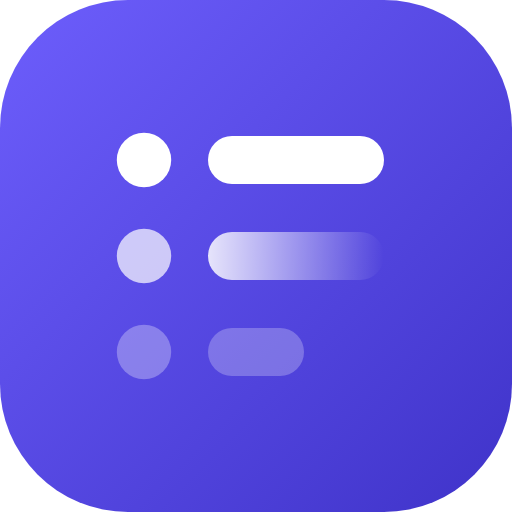
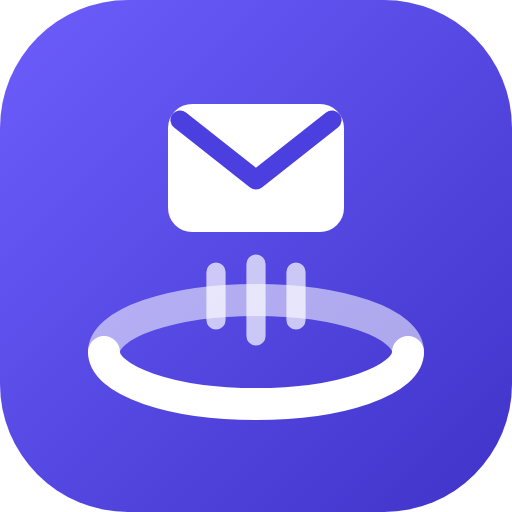
Rename to HoopUp and prepare hoopup.tech on Cloudflare Pages
HoopUp, from the Dutch "hoepel op!" (get lost). Headline "Tell them to
hoop up." / "Laat ze ophoepelen.", a new icon (mail leaving through a
hoop), new preview image, canonical and Open Graph URLs on hoopup.tech,
and every user-facing name, export file name and rule name updated.

Hosting: scripts/build.sh now builds the site into dist/ (only served
files, commit stamped into asset URLs) and is shared by the GitHub Pages
workflow and the Cloudflare Pages build. _headers gives Cloudflare what a
meta tag cannot: frame-ancestors, HSTS, nosniff and a Permissions-Policy.
The CSP is set per page rather than site-wide, since two policies on a
response are both enforced and a global one would break the unsubscribe
worker; that worker is covered at both /unsubscribe.html and the
/unsubscribe path Cloudflare serves it at. Verified against a local
imitation of Cloudflare's header merging and .html redirects: one-click
unsubscribe still delivers, and the full suite passes.

The privacy statement names whichever host is serving the page, so it
stays correct before and after the move.

Claude-Session: https://claude.ai/code/session_01XV4u65F8vtqzABBY9Vux4v

Changed region(s): [[0.1562, 0.1875, 0.8438, 0.8438]]

diff --git a/src/views.js b/src/views.js
@@ -1222,9 +1222,9 @@ export function blockPanel(bl, client) {
   const steps = {
     outlookcom: `
       <ol class="small">
-        ${bl.links.length ? `<li>${L('<b>Settings</b> (gear) → <b>Mail</b> → <b>Rules</b> → <b>Add new rule</b>. Name it <i>Unlisted – links</i>. Condition <b>Subject or body includes</b> — add each of:',
-          '<b>Instellingen</b> (tandwiel) → <b>E-mail</b> → <b>Regels</b> → <b>Nieuwe regel toevoegen</b>. Noem hem <i>Unlisted – links</i>. Voorwaarde <b>Onderwerp of hoofdtekst bevat</b> — voeg elk toe van:')} ${sites}. ${L('Action <b>Delete</b>. Save.', 'Actie <b>Verwijderen</b>. Opslaan.')}</li>` : ''}
-        ${reply.length ? `<li>${L('Add a second rule, <i>Unlisted – replies</i>. Condition <b>Message header includes</b> —', 'Voeg een tweede regel toe, <i>Unlisted – antwoorden</i>. Voorwaarde <b>Berichtkop bevat</b> —')} ${replies}. ${L('Action <b>Delete</b>. Save.', 'Actie <b>Verwijderen</b>. Opslaan.')}</li>` : ''}
+        ${bl.links.length ? `<li>${L('<b>Settings</b> (gear) → <b>Mail</b> → <b>Rules</b> → <b>Add new rule</b>. Name it <i>HoopUp – links</i>. Condition <b>Subject or body includes</b> — add each of:',
+          '<b>Instellingen</b> (tandwiel) → <b>E-mail</b> → <b>Regels</b> → <b>Nieuwe regel toevoegen</b>. Noem hem <i>HoopUp – links</i>. Voorwaarde <b>Onderwerp of hoofdtekst bevat</b> — voeg elk toe van:')} ${sites}. ${L('Action <b>Delete</b>. Save.', 'Actie <b>Verwijderen</b>. Opslaan.')}</li>` : ''}
+        ${reply.length ? `<li>${L('Add a second rule, <i>HoopUp – replies</i>. Condition <b>Message header includes</b> —', 'Voeg een tweede regel toe, <i>HoopUp – antwoorden</i>. Voorwaarde <b>Berichtkop bevat</b> —')} ${replies}. ${L('Action <b>Delete</b>. Save.', 'Actie <b>Verwijderen</b>. Opslaan.')}</li>` : ''}
       </ol>
       ${bl.links.length && reply.length ? twoRules : ''}
       <p class="small muted">${L('Menu names shift slightly between Outlook versions; the conditions are the same.', 'Menunamen verschillen soms per Outlook-versie; de voorwaarden zijn hetzelfde.')}</p>
@@ -1245,15 +1245,15 @@ export function blockPanel(bl, client) {
         <li>${L('Download the filter file below.', 'Download hieronder het filterbestand.')}</li>
         <li>${L('<b>Settings</b> (gear) → <b>See all settings</b> → <b>Filters and Blocked Addresses</b>.',
                '<b>Instellingen</b> (tandwiel) → <b>Alle instellingen bekijken</b> → <b>Filters en geblokkeerde adressen</b>.')}</li>
-        <li>${L('<b>Import filters</b> → choose <code>unlisted-filters.xml</code> → <b>Open file</b> → <b>Create filters</b>. Tick <i>Also apply to matching conversations</i> to clear what is already there.',
-               '<b>Filters importeren</b> → kies <code>unlisted-filters.xml</code> → <b>Bestand openen</b> → <b>Filters maken</b>. Vink <i>Filter ook toepassen op overeenkomende gesprekken</i> aan om wat er al staat op te ruimen.')}</li>
+        <li>${L('<b>Import filters</b> → choose <code>hoopup-filters.xml</code> → <b>Open file</b> → <b>Create filters</b>. Tick <i>Also apply to matching conversations</i> to clear what is already there.',
+               '<b>Filters importeren</b> → kies <code>hoopup-filters.xml</code> → <b>Bestand openen</b> → <b>Filters maken</b>. Vink <i>Filter ook toepassen op overeenkomende gesprekken</i> aan om wat er al staat op te ruimen.')}</li>
       </ol>
       ${reply.length ? `<p class="small muted">${L('Gmail filters cannot look at the reply address, so the file uses the link sites.', 'Gmail-filters kunnen niet naar het antwoordadres kijken, dus het bestand gebruikt de linksites.')}</p>` : ''}
       <div class="row"><button class="primary" data-action="dl-block" data-fmt="gmail" ${bl.links.length ? '' : 'disabled'}>${L('Download Gmail filters', 'Download Gmail-filters')}</button></div>`,
     apple: `
       <ol class="small">
-        <li>${L('Mail on your Mac → <b>Settings</b> → <b>Rules</b> → <b>Add Rule</b>. Name it <i>Unlisted</i>, and set <b>If any of the following conditions are met</b>.',
-               'Mail op je Mac → <b>Instellingen</b> → <b>Regels</b> → <b>Voeg regel toe</b>. Noem hem <i>Unlisted</i> en kies <b>Als aan een van de volgende voorwaarden is voldaan</b>.')}</li>
+        <li>${L('Mail on your Mac → <b>Settings</b> → <b>Rules</b> → <b>Add Rule</b>. Name it <i>HoopUp</i>, and set <b>If any of the following conditions are met</b>.',
+               'Mail op je Mac → <b>Instellingen</b> → <b>Regels</b> → <b>Voeg regel toe</b>. Noem hem <i>HoopUp</i> en kies <b>Als aan een van de volgende voorwaarden is voldaan</b>.')}</li>
         ${bl.links.length ? `<li>${L('For each of', 'Voor elk van')} ${sites} ${L('add <b>Message Content</b> · <b>Contains</b> · <i>the site</i>.', 'voeg toe: <b>Berichtinhoud</b> · <b>Bevat</b> · <i>de site</i>.')}</li>` : ''}
         ${reply.length ? `<li>${L('Add <b>Reply-To</b> · <b>Contains</b> ·', 'Voeg toe: <b>Reply-To</b> · <b>Bevat</b> ·')} ${replies} ${L('(choose <i>Edit Header List…</i> in the first menu if Reply-To is not offered).', '(kies <i>Wijzig kopregellijst…</i> in het eerste menu als Reply-To er niet tussen staat).')}</li>` : ''}
         <li>${L('Action <b>Move Message</b> → <b>Trash</b>. Click <b>Apply</b> when asked, to clear existing mail.', 'Actie <b>Verplaats bericht</b> → <b>Prullenmand</b>. Klik op <b>Pas toe</b> als daarom wordt gevraagd, om bestaande mail op te ruimen.')}</li>
@@ -1277,10 +1277,10 @@ export function blockPanel(bl, client) {
 
 export function blockText(state, fmt) {
   const bl = buildBlockList(state.custom, senderClass);
-  if (fmt === 'gmail') return { text: asGmailXml(bl), name: 'unlisted-filters.xml', type: 'application/xml' };
-  if (fmt === 'sieve') return { text: asSieve(bl), name: 'unlisted.sieve', type: 'text/plain' };
-  if (fmt === 'reply') return { text: asReplyList(bl), name: 'unlisted-reply-addresses.txt', type: 'text/plain' };
-  return { text: asLinkList(bl), name: 'unlisted-link-sites.txt', type: 'text/plain' };
+  if (fmt === 'gmail') return { text: asGmailXml(bl), name: 'hoopup-filters.xml', type: 'application/xml' };
+  if (fmt === 'sieve') return { text: asSieve(bl), name: 'hoopup.sieve', type: 'text/plain' };
+  if (fmt === 'reply') return { text: asReplyList(bl), name: 'hoopup-reply-addresses.txt', type: 'text/plain' };
+  return { text: asLinkList(bl), name: 'hoopup-link-sites.txt', type: 'text/plain' };
 }
 
 export function downloadText({ text, name, type }) {
@@ -1728,7 +1728,7 @@ export function mountProfile(root, state, rerender) {
       const url = URL.createObjectURL(blob);
       const link = document.createElement('a');
       link.href = url;
-      link.download = `unlisted-backup-${store.today()}.json`;
+      link.download = `hoopup-backup-${store.today()}.json`;
       link.click();
       URL.revokeObjectURL(url);
     }
@@ -1771,7 +1771,18 @@ const REPO = 'https://github.com/fransiewillem-design/Data-protection-';
 const CONTACT_EMAIL = '';
 const UPDATED = { en: '10 October 2026', nl: '10 oktober 2026' };
 
+// The statement names whichever host is actually serving this copy, so it
+// stays true before and after the move to the own domain.
+const HOSTS = {
+  github: { name: 'GitHub Pages (GitHub Inc.)', short: 'GitHub', where: 'USA', whereNL: 'VS',
+            policy: 'https://docs.github.com/en/site-policy/privacy-policies/github-general-privacy-statement' },
+  cloudflare: { name: 'Cloudflare Pages (Cloudflare Inc.)', short: 'Cloudflare', where: 'USA, served from data centres near you', whereNL: 'VS, geleverd vanuit datacenters bij jou in de buurt',
+                policy: 'https://www.cloudflare.com/privacypolicy/' }
+};
+const currentHost = () => HOSTS[location.hostname.endsWith('github.io') ? 'github' : 'cloudflare'];
+
 export function about() {
+  const host = currentHost();
   const ext = (href, text) => `<a href="${href}" target="_blank" rel="noopener noreferrer">${text}</a>`;
   const contact = CONTACT_EMAIL
     ? `<a href="mailto:${esc(CONTACT_EMAIL)}">${esc(CONTACT_EMAIL)}</a>`
@@ -1782,8 +1793,8 @@ export function about() {
   return `
   <div class="head">
     <h1>${L('About &amp; privacy', 'Over &amp; privacy')}</h1>
-    <p>${L('Unlisted helps you get off the lists your data ended up on — mailing lists, scam lists and data brokers — without handing that data to yet another company.',
-      'Unlisted helpt je van de lijsten af te komen waar je gegevens op terecht zijn gekomen — mailinglijsten, oplichterslijsten en databrokers — zonder die gegevens aan nóg een bedrijf te geven.')}</p>
+    <p>${L('HoopUp — from the Dutch <i>hoepel op!</i>, "get lost" — tells spammers, scammers and data brokers to leave you alone: off their mailing lists, out of their files, and without handing your data to yet another company.',
+      'HoopUp — van <i>hoepel op!</i> — zegt spammers, oplichters en databrokers dat ze je met rust moeten laten: van hun mailinglijsten af, uit hun bestanden, en zonder je gegevens aan nóg een bedrijf te geven.')}</p>
   </div>
 
   ${sec(L('What it does', 'Wat het doet'), `<ul>${L(`
@@ -1800,12 +1811,12 @@ export function about() {
   <p class="small muted">${L(`Last updated ${UPDATED.en}.`, `Laatst bijgewerkt op ${UPDATED.nl}.`)}</p>
 
   ${sec(L('Who we are', 'Wie we zijn'), `<p>${L(
-    `Unlisted is a free, non-commercial project by <b>fransiewillem</b>. Questions about privacy, or a request under the GDPR: ${contact}.`,
-    `Unlisted is een gratis, niet-commercieel project van <b>fransiewillem</b>. Vragen over privacy, of een verzoek op grond van de AVG: ${contact}.`)}</p>`)}
+    `HoopUp is a free, non-commercial project by <b>fransiewillem</b>. Questions about privacy, or a request under the GDPR: ${contact}.`,
+    `HoopUp is een gratis, niet-commercieel project van <b>fransiewillem</b>. Vragen over privacy, of een verzoek op grond van de AVG: ${contact}.`)}</p>`)}
 
   ${sec(L('In short', 'In het kort'), `<p>${L(
-    'We have no server, no accounts, no analytics, no tracking cookies and no third-party scripts. Nothing you enter in Unlisted, and no mail you drop into it, is ever sent to us. We cannot see it, so we cannot lose it, sell it or hand it over.',
-    'We hebben geen server, geen accounts, geen statistieken, geen trackingcookies en geen scripts van derden. Niets wat je in Unlisted invult, en geen mail die je erin sleept, wordt ooit naar ons gestuurd. We kunnen het niet zien, dus we kunnen het ook niet kwijtraken, verkopen of afgeven.')}</p>`)}
+    'We have no server, no accounts, no analytics, no tracking cookies and no third-party scripts. Nothing you enter in HoopUp, and no mail you drop into it, is ever sent to us. We cannot see it, so we cannot lose it, sell it or hand it over.',
+    'We hebben geen server, geen accounts, geen statistieken, geen trackingcookies en geen scripts van derden. Niets wat je in HoopUp invult, en geen mail die je erin sleept, wordt ooit naar ons gestuurd. We kunnen het niet zien, dus we kunnen het ook niet kwijtraken, verkopen of afgeven.')}</p>`)}
 
   ${sec(L('What stays on your own device', 'Wat op je eigen apparaat blijft'), `
     <p>${L('Everything below is processed in your browser and stored there only (localStorage). It never leaves your device unless you choose to send a letter or export a backup.',
@@ -1824,12 +1835,12 @@ export function about() {
     <p>${L('Only in these cases, and only when you choose to. The data then goes straight from your browser to the party named; it does not pass through us.',
       'Alleen in deze gevallen, en alleen als jij dat kiest. De gegevens gaan dan rechtstreeks van je browser naar de genoemde partij; ze komen niet langs ons.')}</p>
     <ul>${L(`
-      <li><b>Visiting the site.</b> The site is hosted on GitHub Pages (GitHub Inc., USA). Like every web host, GitHub receives your IP address and the files your browser loads, and may log these for security. See the ${ext('https://docs.github.com/en/site-policy/privacy-policies/github-general-privacy-statement', 'GitHub privacy statement')}; GitHub participates in the EU–US Data Privacy Framework.</li>
+      <li><b>Visiting the site.</b> The site is hosted by ${host.name} (${host.where}). Like every web host, ${host.short} receives your IP address and the files your browser loads, and may log these for security. See the ${ext(host.policy, `${host.short} privacy policy`)}; ${host.short} participates in the EU–US Data Privacy Framework.</li>
       <li><b>Breach and password check.</b> When you use it, your browser contacts ${ext('https://haveibeenpwned.com/Privacy', 'Have I Been Pwned')} (Australia). The breach list carries nothing about you. A password check sends only the first 5 characters of a scrambled hash of the password, never the password itself. Only if you add your own API key and check an address is that email address sent to Have I Been Pwned.</li>
       <li><b>One-click unsubscribe.</b> Your browser sends the unsubscribe request to the address the sender published. That sender already has your email address; it also sees your IP address. No cookies or other details are sent.</li>
       <li><b>Opening a link</b> (an unsubscribe page, an opt-out form, the regulator's website) works like any link: that website sees your visit. This site never sends it where you came from.</li>
       <li><b>Letters</b> open in your own mail app and are sent by you, through your own mail provider.</li>`, `
-      <li><b>Het bezoeken van de site.</b> De site draait op GitHub Pages (GitHub Inc., VS). Zoals elke webhost ontvangt GitHub je IP-adres en de bestanden die je browser laadt, en kan die voor beveiliging vastleggen. Zie de ${ext('https://docs.github.com/en/site-policy/privacy-policies/github-general-privacy-statement', 'privacyverklaring van GitHub')}; GitHub neemt deel aan het EU-VS Data Privacy Framework.</li>
+      <li><b>Het bezoeken van de site.</b> De site wordt gehost door ${host.name} (${host.whereNL}). Zoals elke webhost ontvangt ${host.short} je IP-adres en de bestanden die je browser laadt, en kan die voor beveiliging vastleggen. Zie de ${ext(host.policy, `privacyverklaring van ${host.short}`)}; ${host.short} neemt deel aan het EU-VS Data Privacy Framework.</li>
       <li><b>Datalek- en wachtwoordcheck.</b> Als je die gebruikt, maakt je browser contact met ${ext('https://haveibeenpwned.com/Privacy', 'Have I Been Pwned')} (Australië). De lijst met datalekken bevat niets over jou. Een wachtwoordcheck stuurt alleen de eerste 5 tekens van een versleutelde hash van het wachtwoord, nooit het wachtwoord zelf. Alleen als je een eigen API-sleutel toevoegt en een adres controleert, wordt dat e-mailadres naar Have I Been Pwned gestuurd.</li>
       <li><b>Uitschrijven met één klik.</b> Je browser stuurt het uitschrijfverzoek naar het adres dat de afzender opgaf. Die afzender heeft je e-mailadres al; hij ziet ook je IP-adres. Er worden geen cookies of andere gegevens meegestuurd.</li>
       <li><b>Een link openen</b> (een uitschrijfpagina, een afmeldformulier, de website van de toezichthouder) werkt zoals elke link: die website ziet je bezoek. Deze site stuurt niet mee waar je vandaan kwam.</li>
@@ -1840,23 +1851,23 @@ export function about() {
     'We delen of verkopen niets, omdat we niets ontvangen. Om dezelfde reden is er niets dat we kunnen afgeven als iemand daarom vraagt.')}</p>`)}
 
   ${sec(L('Your rights', 'Je rechten'), `<p>${L(
-    `Under the GDPR you have the right to access, correct and erase your personal data, among others. Everything Unlisted stores is already in your own hands: you can view, change and erase it yourself in the app. For anything else, contact us at ${contact}. You can also lodge a complaint with the ${ext('https://autoriteitpersoonsgegevens.nl', 'Autoriteit Persoonsgegevens')}, the Dutch data protection authority.`,
-    `Op grond van de AVG heb je onder meer recht op inzage, correctie en verwijdering van je persoonsgegevens. Alles wat Unlisted opslaat, heb je al zelf in handen: je kunt het in de app bekijken, aanpassen en wissen. Voor al het andere kun je contact opnemen via ${contact}. Je kunt ook een klacht indienen bij de ${ext('https://autoriteitpersoonsgegevens.nl', 'Autoriteit Persoonsgegevens')}.`)}</p>`)}
+    `Under the GDPR you have the right to access, correct and erase your personal data, among others. Everything HoopUp stores is already in your own hands: you can view, change and erase it yourself in the app. For anything else, contact us at ${contact}. You can also lodge a complaint with the ${ext('https://autoriteitpersoonsgegevens.nl', 'Autoriteit Persoonsgegevens')}, the Dutch data protection authority.`,
+    `Op grond van de AVG heb je onder meer recht op inzage, correctie en verwijdering van je persoonsgegevens. Alles wat HoopUp opslaat, heb je al zelf in handen: je kunt het in de app bekijken, aanpassen en wissen. Voor al het andere kun je contact opnemen via ${contact}. Je kunt ook een klacht indienen bij de ${ext('https://autoriteitpersoonsgegevens.nl', 'Autoriteit Persoonsgegevens')}.`)}</p>`)}
 
   ${sec(L('Changes', 'Wijzigingen'), `<p>${L(
     'If this statement changes, the date at the top changes with it. Any change that sends more data anywhere will be announced on this page first, and you can always check the source code.',
     'Als deze verklaring verandert, verandert de datum bovenaan mee. Een wijziging waardoor er meer gegevens ergens heen gaan, kondigen we eerst op deze pagina aan, en je kunt altijd de broncode nakijken.')}</p>`)}
 
   <h2 class="legal-title" id="terms">${L('Terms of use', 'Gebruiksvoorwaarden')}</h2>
-  ${sec(L('Using Unlisted', 'Unlisted gebruiken'), `<ul>${L(`
-    <li>Unlisted is free and provided as is, without any guarantee. It is practical guidance, not legal advice.</li>
+  ${sec(L('Using HoopUp', 'HoopUp gebruiken'), `<ul>${L(`
+    <li>HoopUp is free and provided as is, without any guarantee. It is practical guidance, not legal advice.</li>
     <li>You send every letter and unsubscribe yourself, and you are responsible for what you send. Read each letter before you send it.</li>
     <li>Use it for your own data. Writing on behalf of someone else needs their permission.</li>
     <li>Company contact details may be outdated or guessed; the app marks guessed ones. We cannot see whether a company really erased your data — the app tracks deadlines so you can hold them to it.</li>
-    <li>Unlisted is open source under the MIT licence: ${ext(REPO, 'source code')}.</li>`, `
-    <li>Unlisted is gratis en wordt geleverd zoals het is, zonder enige garantie. Het is praktische uitleg, geen juridisch advies.</li>
+    <li>HoopUp is open source under the MIT licence: ${ext(REPO, 'source code')}.</li>`, `
+    <li>HoopUp is gratis en wordt geleverd zoals het is, zonder enige garantie. Het is praktische uitleg, geen juridisch advies.</li>
     <li>Je verstuurt elke brief en elke uitschrijving zelf, en je bent verantwoordelijk voor wat je verstuurt. Lees elke brief voordat je hem verstuurt.</li>
     <li>Gebruik het voor je eigen gegevens. Namens iemand anders schrijven mag alleen met diens toestemming.</li>
     <li>Contactgegevens van bedrijven kunnen verouderd of gegokt zijn; de app markeert gegokte adressen. We kunnen niet zien of een bedrijf je gegevens echt heeft gewist — de app houdt de termijnen bij zodat je ze eraan kunt houden.</li>
-    <li>Unlisted is open source onder de MIT-licentie: ${ext(REPO, 'broncode')}.</li>`)}</ul>`)}`;
+    <li>HoopUp is open source onder de MIT-licentie: ${ext(REPO, 'broncode')}.</li>`)}</ul>`)}`;
 }

diff --git a/index.html b/index.html
@@ -3,13 +3,15 @@
 <head>
 <meta charset="utf-8">
 <meta name="viewport" content="width=device-width, initial-scale=1">
-<title>Unlisted — get off their lists</title>
-<meta name="description" content="Unsubscribe from real companies, block scams, and make companies delete your data under the GDPR. Free, open source, and nothing ever leaves your browser.">
+<title>HoopUp — tell them to hoop up</title>
+<meta name="description" content="HoopUp — Dutch for &quot;get lost&quot;. Unsubscribe from real companies, block scams, and make companies delete your data under the GDPR. Free, and nothing ever leaves your browser.">
+<link rel="canonical" href="https://hoopup.tech/">
 <meta name="theme-color" content="#4c3fe0">
 <meta property="og:type" content="website">
-<meta property="og:title" content="Unlisted — get off their lists">
+<meta property="og:title" content="HoopUp — tell them to hoop up">
+<meta property="og:url" content="https://hoopup.tech/">
 <meta property="og:description" content="Unsubscribe, block scams, and make companies delete your data. Nothing leaves your browser.">
-<meta property="og:image" content="https://fransiewillem-design.github.io/Data-protection-/assets/img/og.png">
+<meta property="og:image" content="https://hoopup.tech/assets/img/og.png">
 <meta name="twitter:card" content="summary_large_image">
 <meta name="color-scheme" content="light dark">
 <!--
@@ -46,9 +48,9 @@
 <a class="skip" id="skip" href="#main">Skip to content</a>
 
 <header class="topbar">
-  <a class="brand" href="#/" aria-label="Unlisted — home">
+  <a class="brand" href="#/" aria-label="HoopUp — home">
     <img class="mark" src="assets/img/icon.svg" alt="" width="26" height="26">
-    <span>Unlisted</span>
+    <span>HoopUp</span>
   </a>
   <nav id="nav" aria-label="Sections"></nav>
   <span class="local-badge" id="local-badge" title="No server, no account. Everything is stored in this browser only.">local only</span>

diff --git a/src/home.js b/src/home.js
@@ -166,7 +166,8 @@ export function home(state) {
   if (!mail.length) return `
   <section class="hero">
     <img class="hero-mark" src="assets/img/icon.svg" alt="" width="56" height="56">
-    <h1>${L('Get off their lists.', 'Haal jezelf van hun lijsten.')}</h1>
+    <h1>${L('Tell them to hoop up.', 'Laat ze ophoepelen.')}</h1>
+    ${L('<p class="hero-eyebrow">From the Dutch <i>hoepel op!</i> — get lost.</p>', '')}
     <p>${L(`Drop in the mail from your Junk folder. Real companies get an unsubscribe, scams get blocked,
     and you see which companies to make delete your data — on this device. Nothing is uploaded.`,
     `Sleep de mail uit je map Ongewenst hierheen. Echte bedrijven krijgen een uitschrijving, oplichters worden

diff --git a/src/app.js b/src/app.js
@@ -57,7 +57,7 @@ function renderChrome() {
   set('foot-build', L('Build', 'Versie'));
   set('foot-about', L('About &amp; privacy', 'Over &amp; privacy'));
   set('foot-source', L('Source code', 'Broncode'));
-  document.querySelector('.brand')?.setAttribute('aria-label', L('Unlisted — home', 'Unlisted — home'));
+  document.querySelector('.brand')?.setAttribute('aria-label', 'HoopUp — home');
   set('foot-legal', L(
     'Guidance here is practical, not legal advice. Deadlines and rights cited are GDPR (EU/NL) and CCPA/CPRA (California).',
     'De uitleg hier is praktisch, geen juridisch advies. Genoemde termijnen en rechten komen uit de AVG (EU/NL) en de CCPA/CPRA (Californië).'));

diff --git a/src/blocklist.js b/src/blocklist.js
@@ -109,7 +109,7 @@ export function asSieve(bl) {
     tests.push(`  header :contains "reply-to" ${sieveList([...bl.replyTo, ...bl.sharedReplyTo])}`);
   if (bl.links.length) tests.push(`  body :contains ${sieveList(bl.links)}`);
   if (!tests.length) return '# Nothing to block yet.\n';
-  return `# Generated by Unlisted on ${new Date().toISOString().slice(0, 10)}.
+  return `# Generated by HoopUp on ${new Date().toISOString().slice(0, 10)}.
 # Catches mail from senders that failed authentication, by what their
 # campaigns reuse: the sites they link to and the address replies go to.
 # The From address is never matched — in forged mail it is made up or

diff --git a/src/store.js b/src/store.js
@@ -98,7 +98,7 @@ export function reset() { state = clone(EMPTY); persist(); }
 export function importJSON(text) {
   const parsed = JSON.parse(text);
   if (typeof parsed !== 'object' || parsed === null || parsed.v !== 1) {
-    throw new Error(L('Not an Unlisted backup file.', 'Dit is geen Unlisted-back-up.'));
+    throw new Error(L('Not a HoopUp backup file.', 'Dit is geen HoopUp-back-up.'));
   }
   state = backfillSources({ ...clone(EMPTY), ...parsed, profile: { ...EMPTY.profile, ...(parsed.profile || {}) } });
   persist();

diff --git a/assets/css/app.css b/assets/css/app.css
@@ -406,3 +406,4 @@ button, .btn { border-radius: 9px; transition: border-color .12s, color .12s, fi
 .legal ul { padding-left: 20px; margin: 0; }
 .legal li { margin-bottom: 6px; }
 .legal p:last-child { margin-bottom: 0; }
+.hero-eyebrow { margin: -4px auto 14px !important; font-size: .9rem; color: var(--muted); }

diff --git a/README.md b/README.md
@@ -1,12 +1,12 @@
 <p align="center"><img src="assets/img/icon.svg" width="72" height="72" alt=""></p>
 
-# Unlisted
+# HoopUp
 
-**Get off their lists.** Unsubscribe from real companies, block scams, and make companies delete your
+**Tell them to hoop up.** *Hoepel op!* is Dutch for "get lost". Unsubscribe from real companies, block scams, and make companies delete your
 data under the GDPR — all in your browser. No account, no server, no analytics: nothing you enter or
 drop in is ever uploaded. Available in English and Dutch.
 
-**Use it:** https://fransiewillem-design.github.io/Data-protection-/
+**Use it:** https://hoopup.tech
 
 ## What this actually does, and what it cannot
 
@@ -24,7 +24,7 @@ between operators you cannot reach. Filtering is an arms race you slowly lose. W
 compartmentalisation: give every company a different address, so a leak burns one alias instead of
 your identity — and tells you precisely who leaked it.
 
-So Unlisted does the parts that work, and is honest about the rest:
+So HoopUp does the parts that work, and is honest about the rest:
 
 | Stop the mail | Get the data deleted |
 | --- | --- |
@@ -252,7 +252,7 @@ of it.
 
 ## Running it
 
-No build step, no dependencies. It does need to be served over HTTP rather than opened from disk,
+No bundler, no dependencies. It does need to be served over HTTP rather than opened from disk,
 because browsers block `file://` pages from reading local files.
 
 ```bash
@@ -260,24 +260,34 @@ python3 -m http.server 8000
 # open http://localhost:8000
 ```
 
-### Hosting it on GitHub Pages
+### Building
 
-`.github/workflows/pages.yml` publishes the site on every push. Two things have to be true first, and
-the second one cannot be automated:
+`sh scripts/build.sh` copies only what the site serves into `dist/` and stamps the commit into every
+asset URL, so a browser never mixes a fresh page with stale cached modules. Both hosts below run it.
 
-1. **The repository must be eligible for Pages** — public, or private on a paid plan.
-2. **The Pages site must be created once, by hand**, under *Settings → Pages → Build and deployment →
-   Source: **GitHub Actions***.
+### Hosting on Cloudflare Pages (hoopup.tech)
 
-The workflow passes `enablement: true`, which asks the API to do step 2 for you. Do not count on it: the
-default `GITHUB_TOKEN` is refused with *"Resource not accessible by integration"* no matter how its
-permissions are declared, because creating a Pages site needs repository-admin rights that the token
-does not carry. Once the site exists, the workflow finds it and deploys on every push. Pages is not available for private repositories on the Free plan, and a Pages site built from a
-private repository is served at a public URL anyway (access-controlled Pages is Enterprise-only), so
-making the repository public is usually the honest choice.
+1. Cloudflare → **Workers & Pages** → **Create** → **Pages** → **Connect to Git**, and give Cloudflare
+   access to this repository only.
+2. Branch: the default branch. Framework preset: **None**. Build command: `sh scripts/build.sh`.
+   Build output directory: `dist`.
+3. **Custom domains** → add `hoopup.tech` (and `www.hoopup.tech`).
 
-Publishing is safe here: the app is entirely client-side and the repository holds no keys and no
-personal data. A public URL exposes the code, never your data — what you enter stays in your browser.
+`_headers` adds what a `<meta>` tag cannot: `frame-ancestors` (no framing by other sites), HSTS,
+`nosniff`, and a locked-down `Permissions-Policy`. The Content-Security-Policy is set per page, never on
+`/*`: two policies on one response are both enforced, and a site-wide one would strip the unsubscribe
+worker of the `connect-src https:` it exists to hold. Cloudflare serves `/unsubscribe.html` at
+`/unsubscribe`, so that rule is listed under both paths.
+
+### Hosting on GitHub Pages
+
+`.github/workflows/pages.yml` builds and publishes on every push. The Pages site must be created once by
+hand (*Settings → Pages → Source: GitHub Actions*); the workflow's `enablement: true` cannot do it,
+because the default `GITHUB_TOKEN` lacks the admin rights. On the free plan the repository must be
+public. GitHub Pages ignores `_headers`.
+
+Publishing is safe either way: the app is entirely client-side and the repository holds no keys and no
+personal data.
 
 ## Status
 
